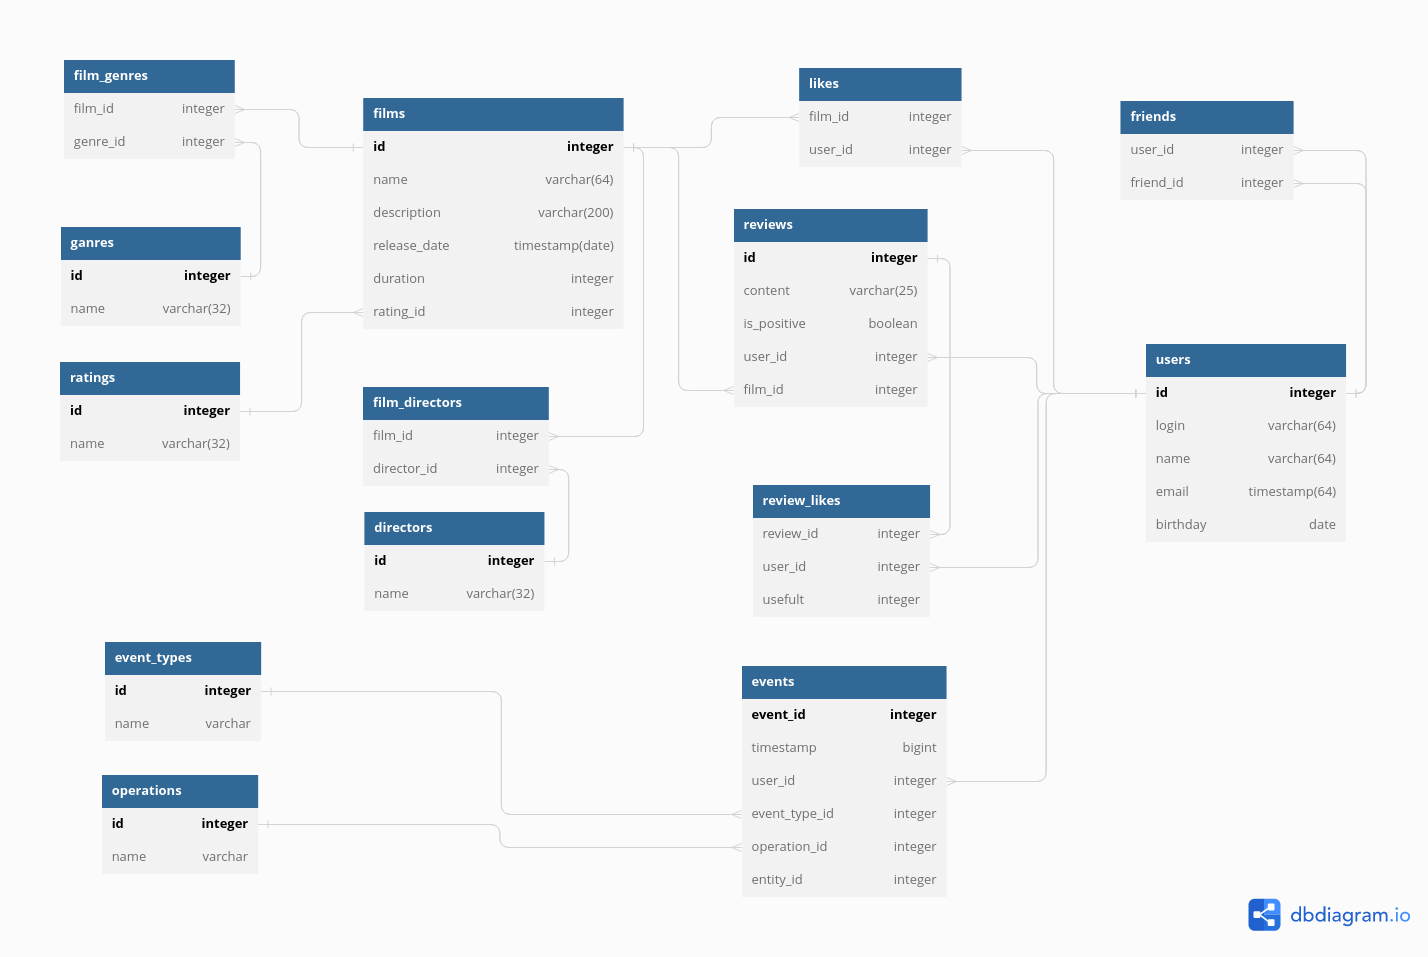
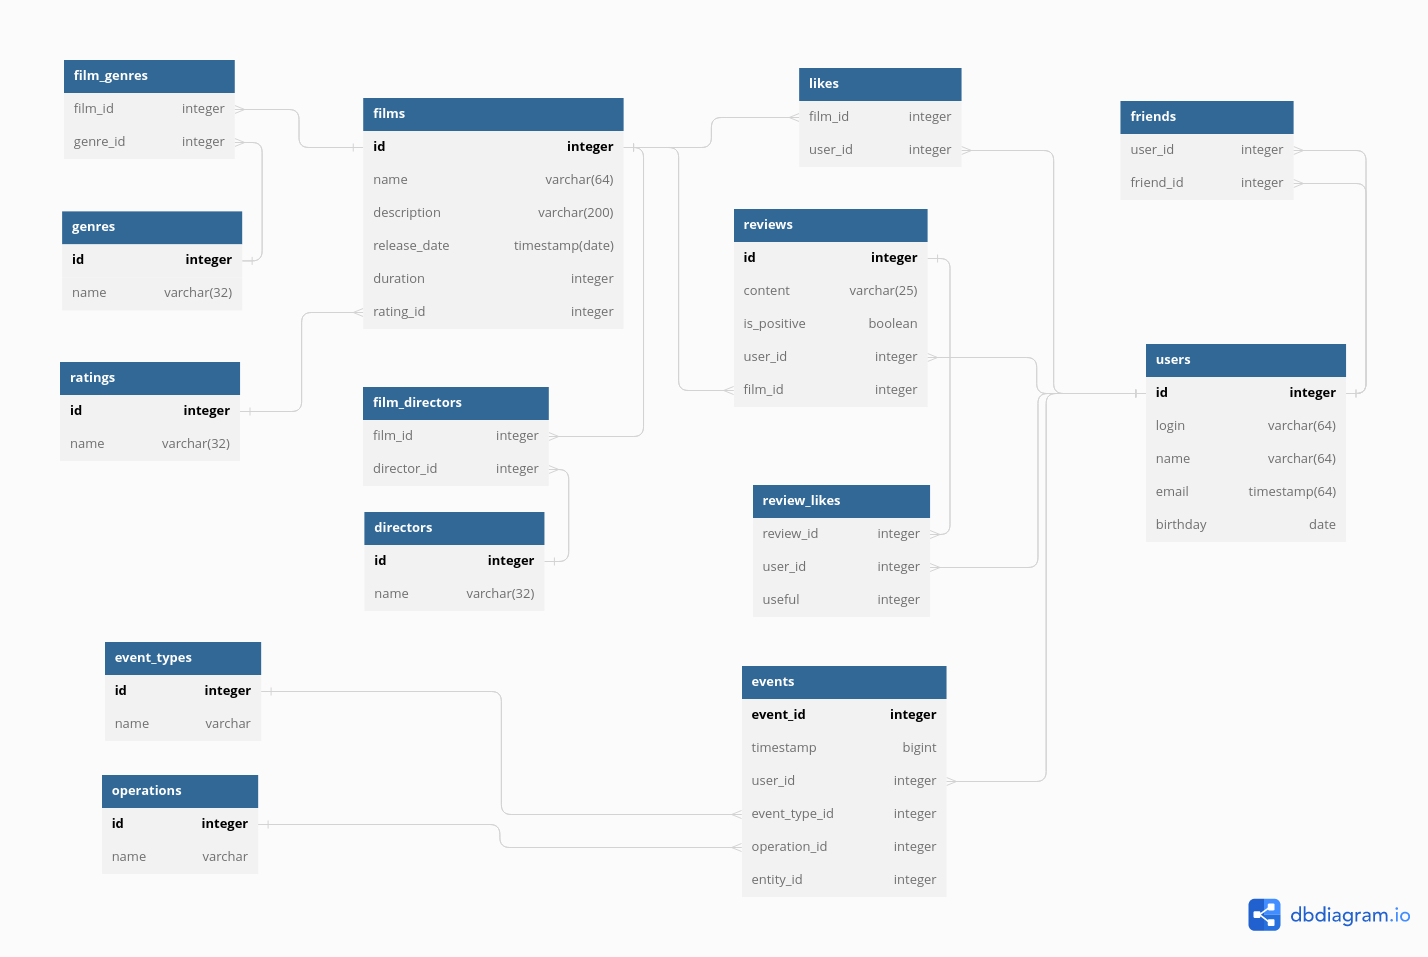
ref: Исправить опечатки на диаграмме

Changed region(s): [[0.0308, 0.2121, 0.1849, 0.3333], [0.0616, 0.303, 0.0924, 0.3333]]

diff --git a/src/main/java/ru/yandex/practicum/filmorate/interfaces/UserStorage.java b/src/main/java/ru/yandex/practicum/filmorate/interfaces/UserStorage.java
@@ -6,10 +6,6 @@ import java.util.Collection;
 
 public interface UserStorage {
 
-    // boolean contains(int id);
-
-    // void checkContains(int id);
-
     Collection<User> getAllUsers();
 
     User getUser(int id);
